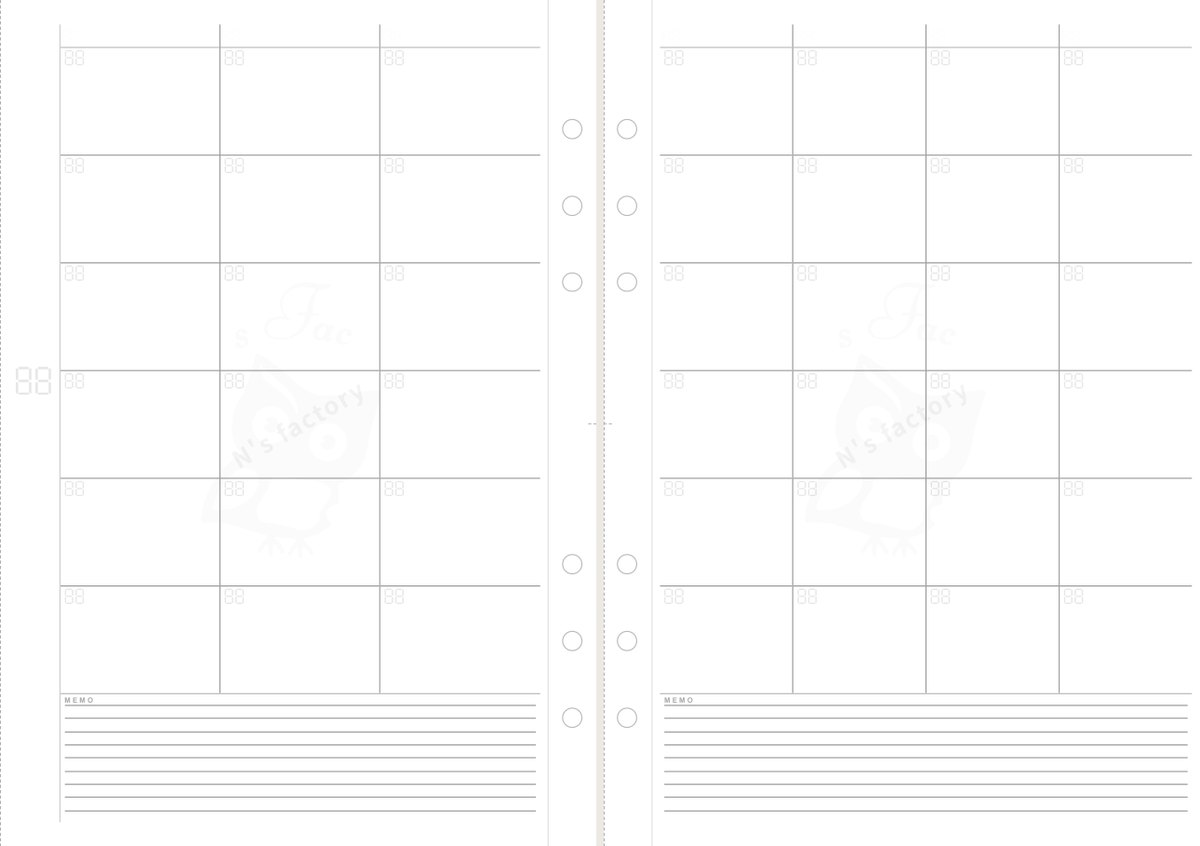
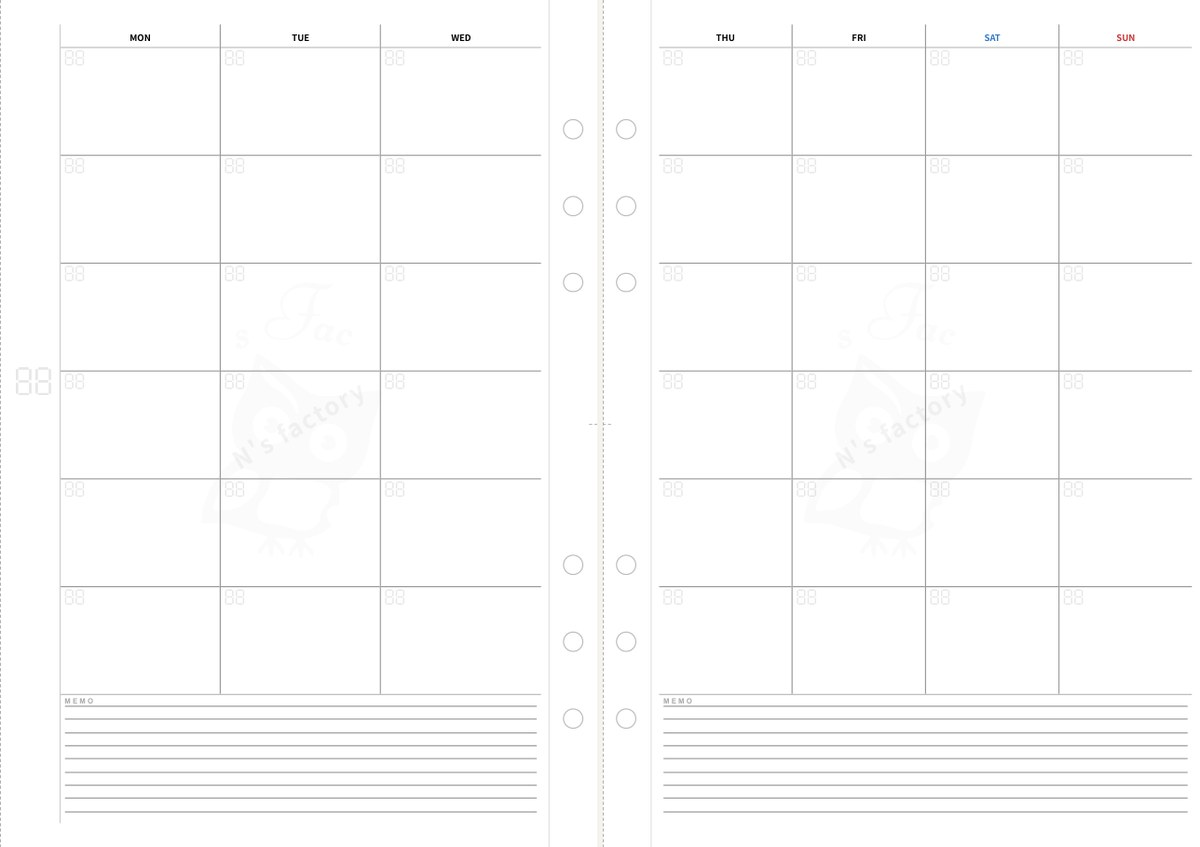
日付なし月間PDF: 曜日を英語で印字・月曜始まり／日曜始まり2版同梱に（販売ページ・ツール一覧・プレビュー画像）
- 販売ページ: 「透かしをなぞる」記述を「曜日は英語で印字（土青・日赤）・日付は透かし」に。仕様表 ZIP 12本（6判型×2版）。日本語曜日版は今後追加予定と明記
- プレビュー6枚と spread/page-right/sheet-a4/weekday-ghost を月曜始まり版PDF（ベクター）から切り出し直し
- tools/index.html の販売カード文言

Changed region(s): [[0.925, 0.0307, 0.9558, 0.0615], [0.37, 0.0307, 0.4008, 0.0615], [0.0925, 0.0307, 0.1233, 0.0615]]

diff --git a/refill-pdf/monthly-undated.html b/refill-pdf/monthly-undated.html
@@ -305,8 +305,8 @@ img{max-width:100%;display:block}
     <p class="hero-eyebrow">N's refill — Undated Planner Insert PDF</p>
     <h1 class="hero-title">日付なし<br>マンスリーリフィル PDF<br><span style="font-size:.6em;font-weight:600;opacity:.85">6判型セット</span></h1>
     <p class="hero-desc">
-      日付も曜日も入っていません。だから、いつからでも使い始められます。
-      月曜始まりでも日曜始まりでも、自分の使い方に合わせて。
+      日付が入っていません。だから、いつからでも使い始められます。
+      曜日は英語で印字済み。月曜始まり版と日曜始まり版の両方が入っています。
       Micro5・ミニ6・バイブル・A6・A5スリム・A5の6判型ぶんをまとめてお渡しします。手帳を替えても買い直し不要です。
     </p>
     <div class="hero-price">¥500 <small>税込・6判型セット</small></div>
@@ -316,7 +316,7 @@ img{max-width:100%;display:block}
     </div>
   </div>
   <div class="hero-photo">
-    <img src="../assets/refill-pdf/spread.jpg" alt="日付なしマンスリーリフィルの見開き。左ページに月〜水、右ページに木〜日の6週分と、薄い透かしの曜日・日付欄" style="width:100%;height:100%;min-height:520px;object-fit:cover;object-position:center top;">
+    <img src="../assets/refill-pdf/spread.jpg" alt="日付なしマンスリーリフィルの見開き（月曜始まり版）。左ページに MON〜WED、右ページに THU〜SUN の6週分。曜日は印字、日付欄は薄い透かし" style="width:100%;height:100%;min-height:520px;object-fit:cover;object-position:center top;">
   </div>
 </section>
 
@@ -343,10 +343,10 @@ img{max-width:100%;display:block}
       </div>
       <div class="contents-card">
         <div class="contents-card-icon">🖍</div>
-        <div class="contents-card-title">曜日と日付は薄い透かし</div>
+        <div class="contents-card-title">曜日は英語で印字・日付は薄い透かし</div>
         <div class="contents-card-desc">
-          曜日欄には7曜が薄く並び、日付欄はデジタル数字の透かしです。
-          当てはまる曜日をなぞり、数字を塗って使います。月曜始まり・日曜始まりのどちらにも対応。
+          曜日は MON・TUE… の英語3文字で印字済み（土曜は青・日曜は赤）。日付欄はデジタル数字の透かしで、使う月に合わせて数字を塗ります。
+          月曜始まり版と日曜始まり版の両方を同梱。
         </div>
       </div>
       <div class="contents-card">
@@ -370,7 +370,7 @@ img{max-width:100%;display:block}
       <h2 class="section-title">6判型すべて収録。手帳を替えても買い直し不要です</h2>
     </div>
     <p class="lead">
-      1本のZIPに6判型のPDF（各12か月分）と「印刷のしかた」が入っています。お使いの手帳の判型のPDFだけ印刷してください。
+      1本のZIPに6判型 × 月曜始まり／日曜始まりのPDF 12本（各12か月分）と「印刷のしかた」が入っています。お使いの手帳の判型のPDFだけ印刷してください。
     </p>
     <div class="size-grid">
       <div class="size-card" style="border-color:var(--color-accent)">
@@ -421,7 +421,7 @@ img{max-width:100%;display:block}
     </div>
     <p class="lead">
       実際にお渡しするPDFから切り出した「見開き1か月」です。画像をクリックすると大きく表示します。
-      薄い数字と曜日が透かし、罫線は印刷で消えにくい濃さにしてあります。
+      曜日は英語で印字、数字は薄い透かし、罫線は印刷で消えにくい濃さにしてあります（画像は月曜始まり版）。
     </p>
     <div class="preview-grid">
       <a class="preview-card" href="../assets/refill-pdf/preview-a5slim.jpg" target="_blank" rel="noopener"><img src="../assets/refill-pdf/preview-a5slim.jpg" alt="A5スリムの見開き1か月" loading="lazy"><span class="preview-name">A5スリム <small>110×210</small></span></a>
@@ -457,12 +457,12 @@ img{max-width:100%;display:block}
         </p>
       </div>
       <div>
-        <div class="step-photo" style="padding:0;color:inherit"><img src="../assets/refill-pdf/weekday-ghost.jpg" alt="ページ上部の拡大。各列の上に薄い7曜、各マスにデジタル数字の透かし" style="width:100%;height:100%;object-fit:cover;object-position:left top;"></div>
+        <div class="step-photo" style="padding:0;color:inherit"><img src="../assets/refill-pdf/weekday-ghost.jpg" alt="ページ上部の拡大。各列の上に英語の曜日、各マスにデジタル数字の透かし" style="width:100%;height:100%;object-fit:cover;object-position:left top;"></div>
         <p class="step-label">Step 02</p>
-        <p class="step-title">曜日と日付をなぞる</p>
+        <p class="step-title">日付を塗る</p>
         <p class="step-caption">
-          曜日欄の薄い7曜から当てはまるものをなぞり、日付欄のデジタル数字の透かしを塗ります。
-          月曜始まりでも日曜始まりでも同じページで使えます。土日に色を塗って目立たせる使い方もできます。
+          曜日は印字済みなので、使う月の1日の位置から日付欄のデジタル数字の透かしを塗っていきます。
+          月曜始まり・日曜始まりは、お好みの方のPDFを印刷してください。
         </p>
       </div>
       <div>
@@ -489,7 +489,7 @@ img{max-width:100%;display:block}
     <table class="spec-table">
       <tr>
         <th>書式</th>
-        <td>マンスリー（見開き1か月・左ページ 月〜水／右ページ 木〜日）／ 6週 × 7列 = 42マス＋メモ欄 ／ 各判型12か月分</td>
+        <td>マンスリー（見開き1か月・月曜始まり版は左ページ MON〜WED／右ページ THU〜SUN、日曜始まり版は左 SUN〜TUE／右 WED〜SAT）／ 6週 × 7列 = 42マス＋メモ欄 ／ 各判型・各版12か月分</td>
       </tr>
       <tr>
         <th>収録サイズ</th>
@@ -497,15 +497,15 @@ img{max-width:100%;display:block}
       </tr>
       <tr>
         <th>ページ数（A4）</th>
-        <td>A5スリム 14／A5 14／バイブル 10／A6 8／ミニ6 8／Micro5 6（いずれも両面）</td>
+        <td>A5スリム 14／A5 14／バイブル 10／A6 8／ミニ6 8／Micro5 6（いずれも両面・1版あたり）</td>
       </tr>
       <tr>
         <th>日付・曜日</th>
-        <td>数字と曜日は薄い透かしだけ（なぞって使う方式）。祝日・年月の印字はありません</td>
+        <td>曜日は英語3文字で印字（土曜青・日曜赤）。数字は薄い透かし（塗って使う方式）。祝日・年月の印字はありません。日本語曜日版は今後追加予定</td>
       </tr>
       <tr>
         <th>ファイル形式</th>
-        <td>ZIP（PDF 6本＋印刷のしかた.txt）／ A4印刷対応・拡大縮小なし</td>
+        <td>ZIP（PDF 12本＝6判型 × 月曜始まり／日曜始まり ＋ 印刷のしかた.txt）／ A4印刷対応・拡大縮小なし</td>
       </tr>
       <tr>
         <th>推奨用紙</th>
@@ -573,7 +573,7 @@ img{max-width:100%;display:block}
     <p class="cta-label">Buy now</p>
     <h2 class="cta-title">日付なし マンスリーリフィル<br>PDF 6判型セットを手に入れる</h2>
     <p class="cta-desc">
-      Micro5・ミニ6・バイブル・A6・A5スリム・A5の6判型（各12か月分）をZIPでまとめてお渡しします。<br>
+      Micro5・ミニ6・バイブル・A6・A5スリム・A5の6判型 × 月曜始まり／日曜始まり（各12か月分）をZIPでまとめてお渡しします。<br>
       ご購入後、ダウンロードリンクをメールでお送りします。
     </p>
     <div class="cta-price-block">

diff --git a/tools/index.html b/tools/index.html
@@ -259,7 +259,7 @@ try { if (localStorage.getItem('nsf_ga_optout') === '1') { window['ga-disable-G-
       <div class="dim"><b>¥500</b>6判型セット 日付なし月間</div>
     </div>
     <div class="size-meta"><span>ツールを操作せずに、そのまま印刷できる完成データ</span><span>Micro5・ミニ6・バイブル・A6・A5スリム・A5</span></div>
-    <div class="tool"><span class="k">Buy</span><span><span class="t">日付なし マンスリーリフィル PDF 6判型セット</span><span class="d">各判型12か月分・見開き1か月・7セグ風の透かし。<span data-checkout-off="refill-monthly-undated-all">いまはメール申込（銀行振込）</span><span data-checkout-on="refill-monthly-undated-all" style="display:none">カード決済ですぐダウンロード（銀行振込も可）</span></span></span><span class="arrow">→</span></div>
+    <div class="tool"><span class="k">Buy</span><span><span class="t">日付なし マンスリーリフィル PDF 6判型セット</span><span class="d">各判型12か月分・曜日は英語で印字・月曜始まり／日曜始まり同梱。<span data-checkout-off="refill-monthly-undated-all">いまはメール申込（銀行振込）</span><span data-checkout-on="refill-monthly-undated-all" style="display:none">カード決済ですぐダウンロード（銀行振込も可）</span></span></span><span class="arrow">→</span></div>
   </a>
 
   <div class="sec"><span class="n">03</span><h2>Specifications</h2><span class="rule"></span></div>
